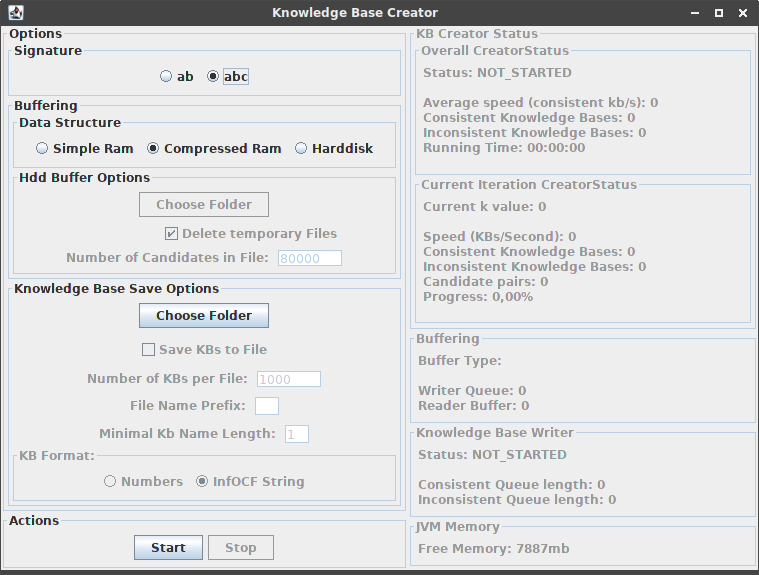
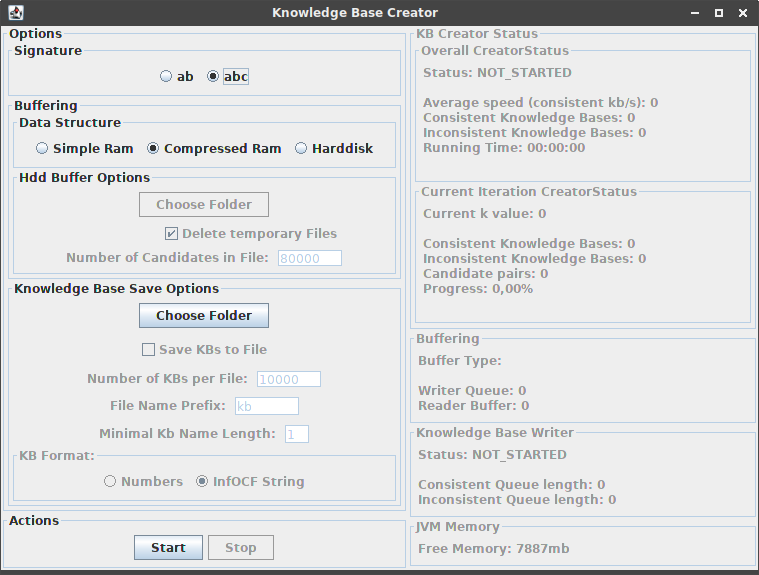
removed iteration speed

Changed region(s): [[0.5455, 0.2957, 1.0, 0.5322], [0.1515, 0.68, 0.3333, 0.7391], [0.3636, 0.68, 0.3939, 0.7096]]

diff --git a/ma.tex b/ma.tex
@@ -875,7 +875,7 @@ Ganz unten befinden sich die Buttons für Start und Stop. Von den Buttons ist je
 \subsubsection{Statusanzeige}
 Auf der Rechten Seite werden Informationen zum Programmstatus angezeigt, während der KBCreator läuft. Sie sind jeweils unter verschiedenen Kategorien gruppiert. Im Folgenden werden die Kategorien von oben nach unten erklärt. \\
 Ganz oben befindet sich der OverallCreatorStatus. Hier wird der Status des KbCreator selbst in der ersten Zeile angezeigt. Mögliche Werte sind hierfür: NOT$\_$STARTED, RUNNING, STOPPED und FINISHED. Danach folgen einige Informationen zum aktuellen Programmablauf über alle Iterationen hinweg. Angezeigt werden: die Durchschnittsgeschwindigkeit (In konsistente Wissensbasen pro Sektunde über dem gesamten Programmablauf) und die Gesamtmenge der erstellten konsistenten und inkonsistenten Wissensbasen. Ebenfalls wird die Zeit angezeigt, seitdem der KbCreator schon läuft. \\
-Im nächsten Abschnitt werden Informationen zur aktuellen Iteration $k$ angezeigt. Das ist zu ganz oben der aktuelle Wert für $k$ selbst. Dann folgt die aktuelle Geschwindigkeit (auch hier wieder in der Einheit konsistente Wissensbasen pro Sekunde). Danach die generierte Mengen an konsistenten und inkonsistenten Wissensbasen in der aktuellen Iteration. Darunter die Angabe \glqq Candidate Pairs\grqq \space. Sie beschreibt die Gesamtmenge an Paaren $<R, C>$ aus Kandidaten und Wissensbasen, die in dieser aktuellen Iteration bearbeitet werden müssen. Zum Schluss eine Fortschrittsanzeige in Prozent: Sie zeigt den momentanen Fortschritt der aktuellen Iteration. Dieser Wert errechnet sich aus dem Anteil der schon bearbeiteten Paare $<R,C>$ von der gesamtMenge der dieser Paare. Dadurch steigt der Prozent Wert in einer Iteration erst rechtn langsam, dann immer schneller. Das liegt daran, dass zuerst zeitintensiv diejenigen Paare mit einer großen Anzahl von Kandidaten bearbeitet werden, was entsprechend länger dauert. daher steigt dieser Wert zum Ende einer Iteration immer schneller an. \\
+Im nächsten Abschnitt werden Informationen zur aktuellen Iteration $k$ angezeigt. Das ist zu ganz oben der aktuelle Wert für $k$ selbst. Danach die generierte Mengen an konsistenten und inkonsistenten Wissensbasen in der aktuellen Iteration. Darunter die Angabe \glqq Candidate Pairs\grqq \space. Sie beschreibt die Gesamtmenge an Paaren $<R, C>$ aus Kandidaten und Wissensbasen, die in dieser aktuellen Iteration bearbeitet werden müssen. Zum Schluss eine Fortschrittsanzeige in Prozent: Sie zeigt den momentanen Fortschritt der aktuellen Iteration. Dieser Wert errechnet sich aus dem Anteil der schon bearbeiteten Paare $<R,C>$ von der gesamtMenge der dieser Paare. Dadurch steigt der Prozent Wert in einer Iteration erst rechtn langsam, dann immer schneller. Das liegt daran, dass zuerst zeitintensiv diejenigen Paare mit einer großen Anzahl von Kandidaten bearbeitet werden, was entsprechend länger dauert. daher steigt dieser Wert zum Ende einer Iteration immer schneller an. \\
 Darunter befinden sich Informationen zum Buffering. Erstens der zuvor ausgewählte BufferType selbst, also SIMPLE$\_$RAM, COMPRESSED$\_$RAM oder HDD. Darunter befinden sich die Queues \textit{NewIterationQueue} und \textit{lastIterationQueue} wie in \autoref{sec:abstractbuffer} beschrieben. \\
 Als nächstes folgen Informationen zum KnowledgeBaseWriter. Erstens der aktulle Status Status als NOT$\_$STARTED, RUNNING und DUMMY$\_$WRITER. Darunter der aktuelle Füllstand der Queues für konsistente und inkonsistente Wissensbasen. \\
 Ganz unten befindet sich eine Information zur Java JVM selbst: Sie gibt im Prinzip den noch freien Arbeitsspeicher an. Diese Information ist etwas erklärungsbedürftig: Der Wert beschreibt in etwa den noch freien HEAP der JVM in Megabytes. Das ist also der Platz, der für neu erstellte Objekte noch zur Verfügung steht. Möglicherweise kann der GarbageCollector jedoch bei bedarf noch etwas mehr Speicher zur Verfügung stellen. Der Wert ist also überhaupt nicht präzise, trotzdem ein guter Anhaltspunkt zum Status des aktuellen Programmablaufs. Man kann zumindest einschätzen, ob noch Speicher frei ist, oder ob der Speicher voll ist. Konkret wird der Wert auf mit folgender Codezeile ermittelt:
